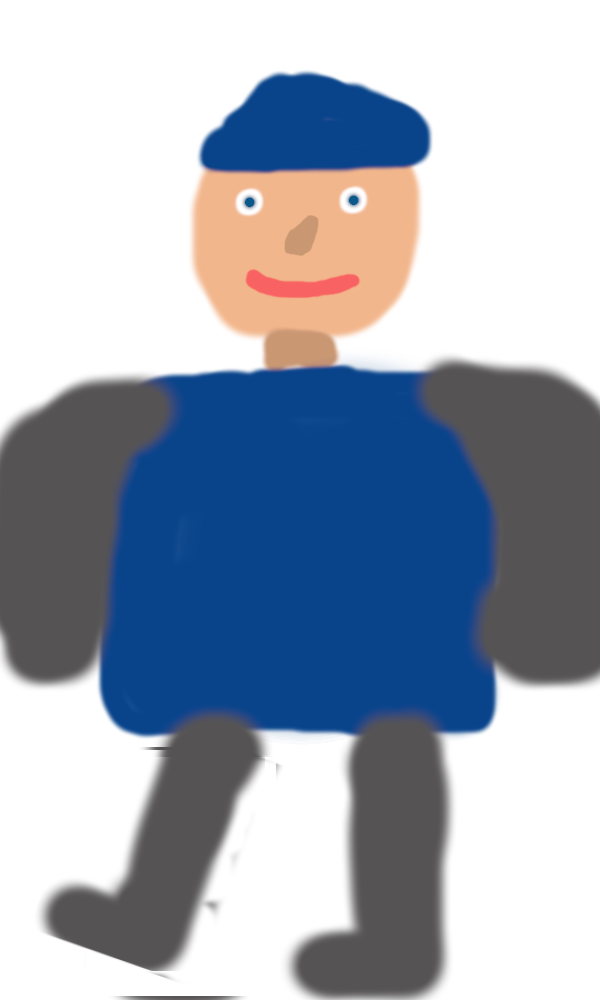
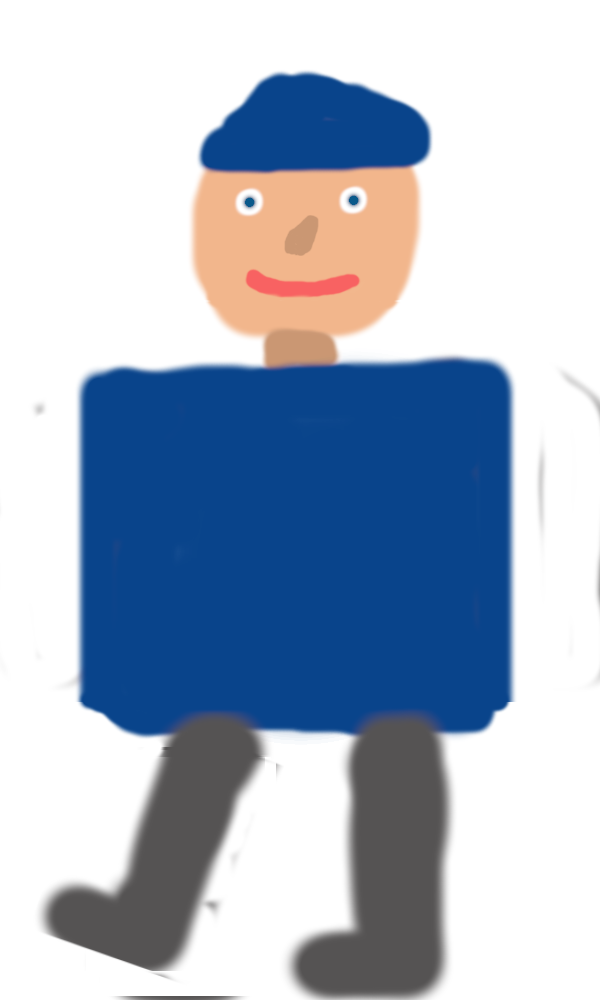
Add arms animation

Changed region(s): [[0.0, 0.341, 1.0, 0.713], [0.24, 0.744, 0.27, 0.775], [0.18, 0.713, 0.21, 0.744]]

diff --git a/player/arms_controller.py b/player/arms_controller.py
@@ -1,0 +1,75 @@
+import pygame
+
+
+class ArmsController:
+    COLOR = (90, 90, 90)
+
+    def __init__(self, rect: pygame.Rect):
+        self.left_arm_x = rect.x
+        self.left_arm_y = rect.centery - rect.width // 5
+        self.left_arm_surf = pygame.Surface((rect.width // 6, rect.height // 3))
+        self.left_arm_surf.fill(self.COLOR)
+
+        self.right_arm_x = rect.x + rect.width - rect.width // 6
+        self.right_arm_y = rect.centery - rect.width // 5
+        self.right_arm_surf = pygame.Surface((rect.width // 6, rect.height // 3), pygame.SRCALPHA)
+        self.right_arm_surf.fill(self.COLOR)
+
+        self.right_arm_up = False
+        self.right_animation_phase = 'up'
+        self.right_count_target = 0
+        self.right_counter = 0
+
+        self.left_arm_up = False
+        self.left_animation_phase = 'up'
+        self.left_count_target = 0
+        self.left_counter = 0
+
+    def start_animation(self, direction: str):
+        if direction == "right":
+            self.right_arm_up = True
+            self.right_animation_phase = 'up'
+            self.right_count_target = self.right_arm_surf.get_height()
+            self.right_counter = 0
+        elif direction == "left":
+            self.left_arm_up = True
+            self.left_animation_phase = 'up'
+            self.left_count_target = self.left_arm_surf.get_height()
+            self.left_counter = 0
+
+    def animate(self, rect: pygame.Rect):
+        if self.right_arm_up:
+            if self.right_counter >= self.right_count_target:
+                self.right_animation_phase = 'down'
+            if self.right_animation_phase == 'up':
+                self.right_arm_y -= 7
+                self.right_counter += 0.3
+            elif self.right_animation_phase == 'down':
+                self.right_arm_y += 0.3
+                self.right_counter -= 0.3
+                if self.right_counter <= 0:
+                    self.right_arm_up = False
+                    self.right_arm_y = rect.centery - rect.width // 5
+        elif self.left_arm_up:
+            if self.left_counter >= self.left_count_target:
+                self.left_animation_phase = 'down'
+            if self.left_animation_phase == 'up':
+                self.left_arm_y -= 7
+                self.left_counter += 0.3
+            elif self.left_animation_phase == 'down':
+                self.left_arm_y += 0.3
+                self.left_counter -= 0.3
+                if self.left_counter <= 0:
+                    self.left_arm_up = False
+                    self.left_arm_y = rect.centery - rect.width // 5
+
+    def draw_arms(self, win: pygame.Surface):
+        win.blit(self.left_arm_surf, (self.left_arm_x, self.left_arm_y))
+        win.blit(self.right_arm_surf, (self.right_arm_x, self.right_arm_y))
+
+    def update_rect_pos(self, rect: pygame.Rect):
+        self.left_arm_x = rect.x
+        self.left_arm_y = rect.centery - rect.width // 5
+        self.right_arm_x = rect.x + rect.width - rect.width // 6
+        self.right_arm_y = rect.centery - rect.width // 5
+        self.animate(rect)

diff --git a/player/player.py b/player/player.py
@@ -3,6 +3,7 @@ from typing import Set, List, Tuple
 import pygame
 
 from player.animation_controller import AnimationController
+from player.arms_controller import ArmsController
 from player.hit_controller import HitController
 from player.jump_controller import JumpController
 
@@ -22,6 +23,8 @@ class Player:
         self.is_moving = False
 
         self.rect = self.image_right.get_rect(center=(x, y))
+        self.arms_controller = ArmsController(self.rect)
+        self.arm_up = False
 
         self.attack_rect = pygame.Rect(
             self.rect.centerx, self.rect.centery, self.rect.width - self.rect.width // 3, self.rect.width // 2
@@ -36,12 +39,15 @@ class Player:
 
     def draw(self, win: pygame.Surface):
         if self.is_moving:
-            self.animation_controller.animate(win, self.rect, self.direction)
+            self.animation_controller.animate_walk(win, self.rect, self.direction)
         else:
             if self.direction == "right":
                 win.blit(self.image_right, self.rect)
             elif self.direction == "left":
                 win.blit(self.image_left, self.rect)
+
+        self.arms_controller.update_rect_pos(self.rect)
+        self.arms_controller.draw_arms(win)
 
     def key_handler(self, blocks_state: Set[str], players) -> List[Tuple[int, str]]:
         """
@@ -64,7 +70,11 @@ class Player:
         if (keys[pygame.K_UP] or keys[pygame.K_w]) and ('on' in blocks_state) and self.jump_controller.can_jump:
             self.jump_controller.start_jump()
         if keys[pygame.K_SPACE]:
+            self.arms_controller.start_animation(self.direction)
+            self.arm_up = True
             return self.check_for_hit_players(players)
+        else:
+            self.arm_up = False
         return []
 
     def check_for_hit_players(self, players):

diff --git a/player/animation_controller.py b/player/animation_controller.py
@@ -6,7 +6,7 @@ class AnimationController:
     IMAGE_WIDTH = 38
     IMAGE_HEIGHT = 63
 
-    ANIMATION_COUNTER_MAX = 20
+    ANIMATION_COUNTER_MAX = 30
 
     def __init__(self):
         self.right_images = []
@@ -18,11 +18,11 @@ class AnimationController:
             self.left_images.append(pygame.transform.scale(img_left, (self.IMAGE_WIDTH, self.IMAGE_HEIGHT)))
         self.animation_counter = 0
 
-    def animate(self, win: pygame.Surface, rect: pygame.Rect, direction: str):
+    def animate_walk(self, win: pygame.Surface, rect: pygame.Rect, direction: str):
         self.animation_counter += 1
         if self.animation_counter > self.ANIMATION_COUNTER_MAX:
             self.animation_counter = 0
         if direction == "right":
-            win.blit(self.right_images[self.animation_counter % self.NUM_OF_IMAGES], rect)
+            win.blit(self.right_images[self.animation_counter // 10], rect)
         elif direction == "left":
-            win.blit(self.left_images[self.animation_counter % self.NUM_OF_IMAGES], rect)
+            win.blit(self.left_images[self.animation_counter // 10], rect)

diff --git a/routes/game.py b/routes/game.py
@@ -59,7 +59,7 @@ class Game:
             self.client.send_player_data_obj(
                 PlayerDataObject(self.player_id, self.local_player.rect.x, self.local_player.rect.y,
                                  hit_players_data, self.updated_hit,
-                                 self.local_player.is_moving, self.local_player.direction)
+                                 self.local_player.is_moving, self.local_player.direction, self.local_player.arm_up)
             )
         self.game_data = self.client.recv_data()
 
@@ -74,6 +74,8 @@ class Game:
                 self.players[p_id].rect.y = player_obj.y
                 self.players[p_id].is_moving = player_obj.is_moving
                 self.players[p_id].direction = player_obj.direction
+                if player_obj.arm_up:
+                    self.players[p_id].arms_controller.start_animation(player_obj.direction)
 
         if self.local_player.id in self.game_data.players:
             if self.game_data.players[self.local_player.id].is_hit:

diff --git a/player/player_data_object.py b/player/player_data_object.py
@@ -4,7 +4,8 @@ from typing import List, Tuple
 class PlayerDataObject:
 
     def __init__(self, player_id: int, x: int, y: int,
-                 hit_players_ids: List[Tuple[int, str]] = None, updated_hit=False, is_moving=False, direction="right"):
+                 hit_players_ids: List[Tuple[int, str]] = None, updated_hit=False, is_moving=False,
+                 direction="right", arm_up=False):
         self.id = player_id
         self.x = x
         self.y = y
@@ -14,3 +15,4 @@ class PlayerDataObject:
         self.updated_hit = updated_hit
         self.is_moving = is_moving
         self.direction = direction
+        self.arm_up = arm_up

diff --git a/networking/game_data_object.py b/networking/game_data_object.py
@@ -51,6 +51,7 @@ class GameDataObject:
             self.players[player.id].y = player.y
             self.players[player.id].is_moving = player.is_moving
             self.players[player.id].direction = player.direction
+            self.players[player.id].arm_up = player.arm_up
         elif player.id in self.players:
             self.remove_player(player.id)
 
